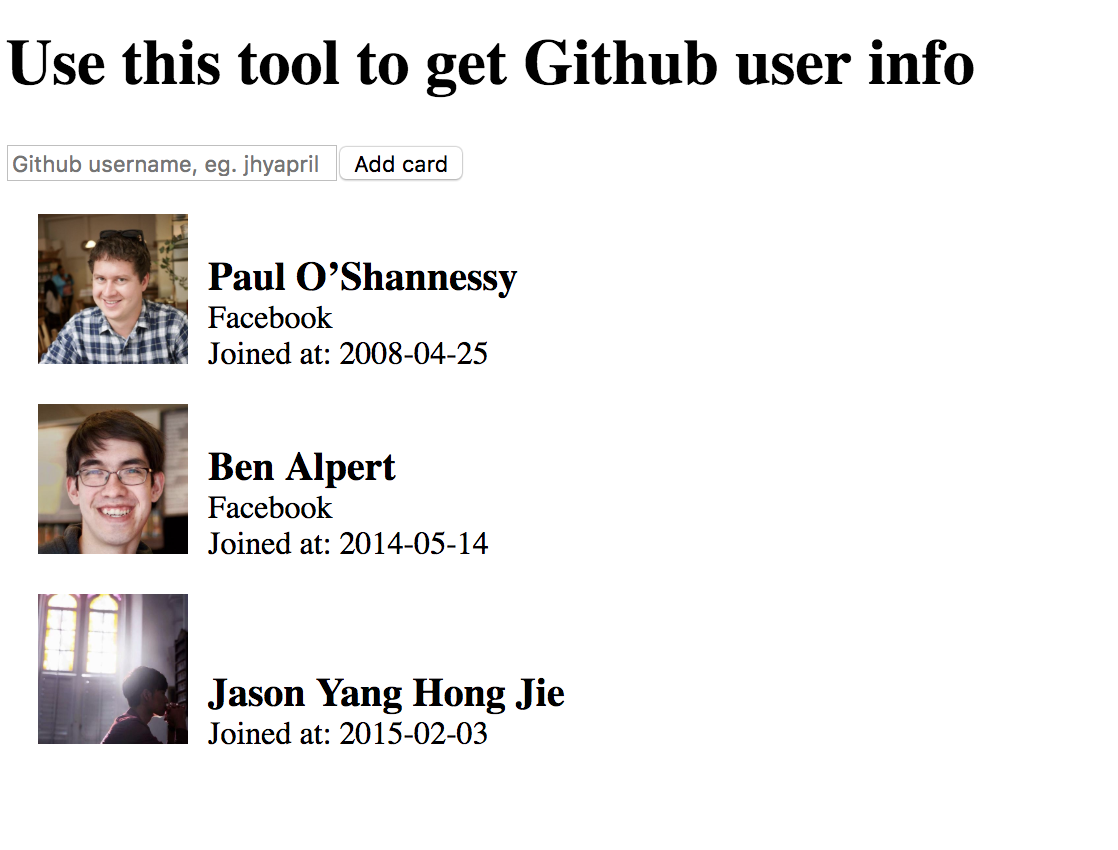
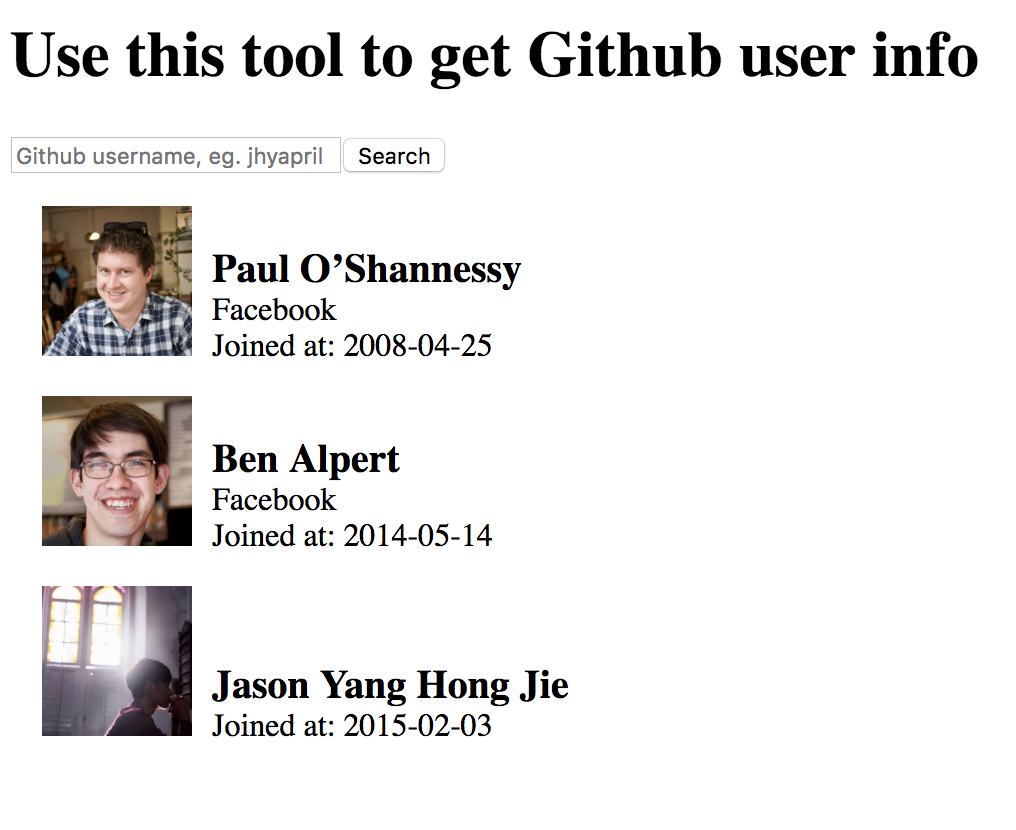
refractor wording

diff --git a/src/components/Form.js b/src/components/Form.js
@@ -28,7 +28,7 @@ class Form extends React.Component {
                placeholder="Github username, eg. jhyapril"
                style={{width: '10rem'}}
                required/>
-        <button type="submit">Add card</button>
+        <button type="submit">Search</button>
       </form>
     );
   }
